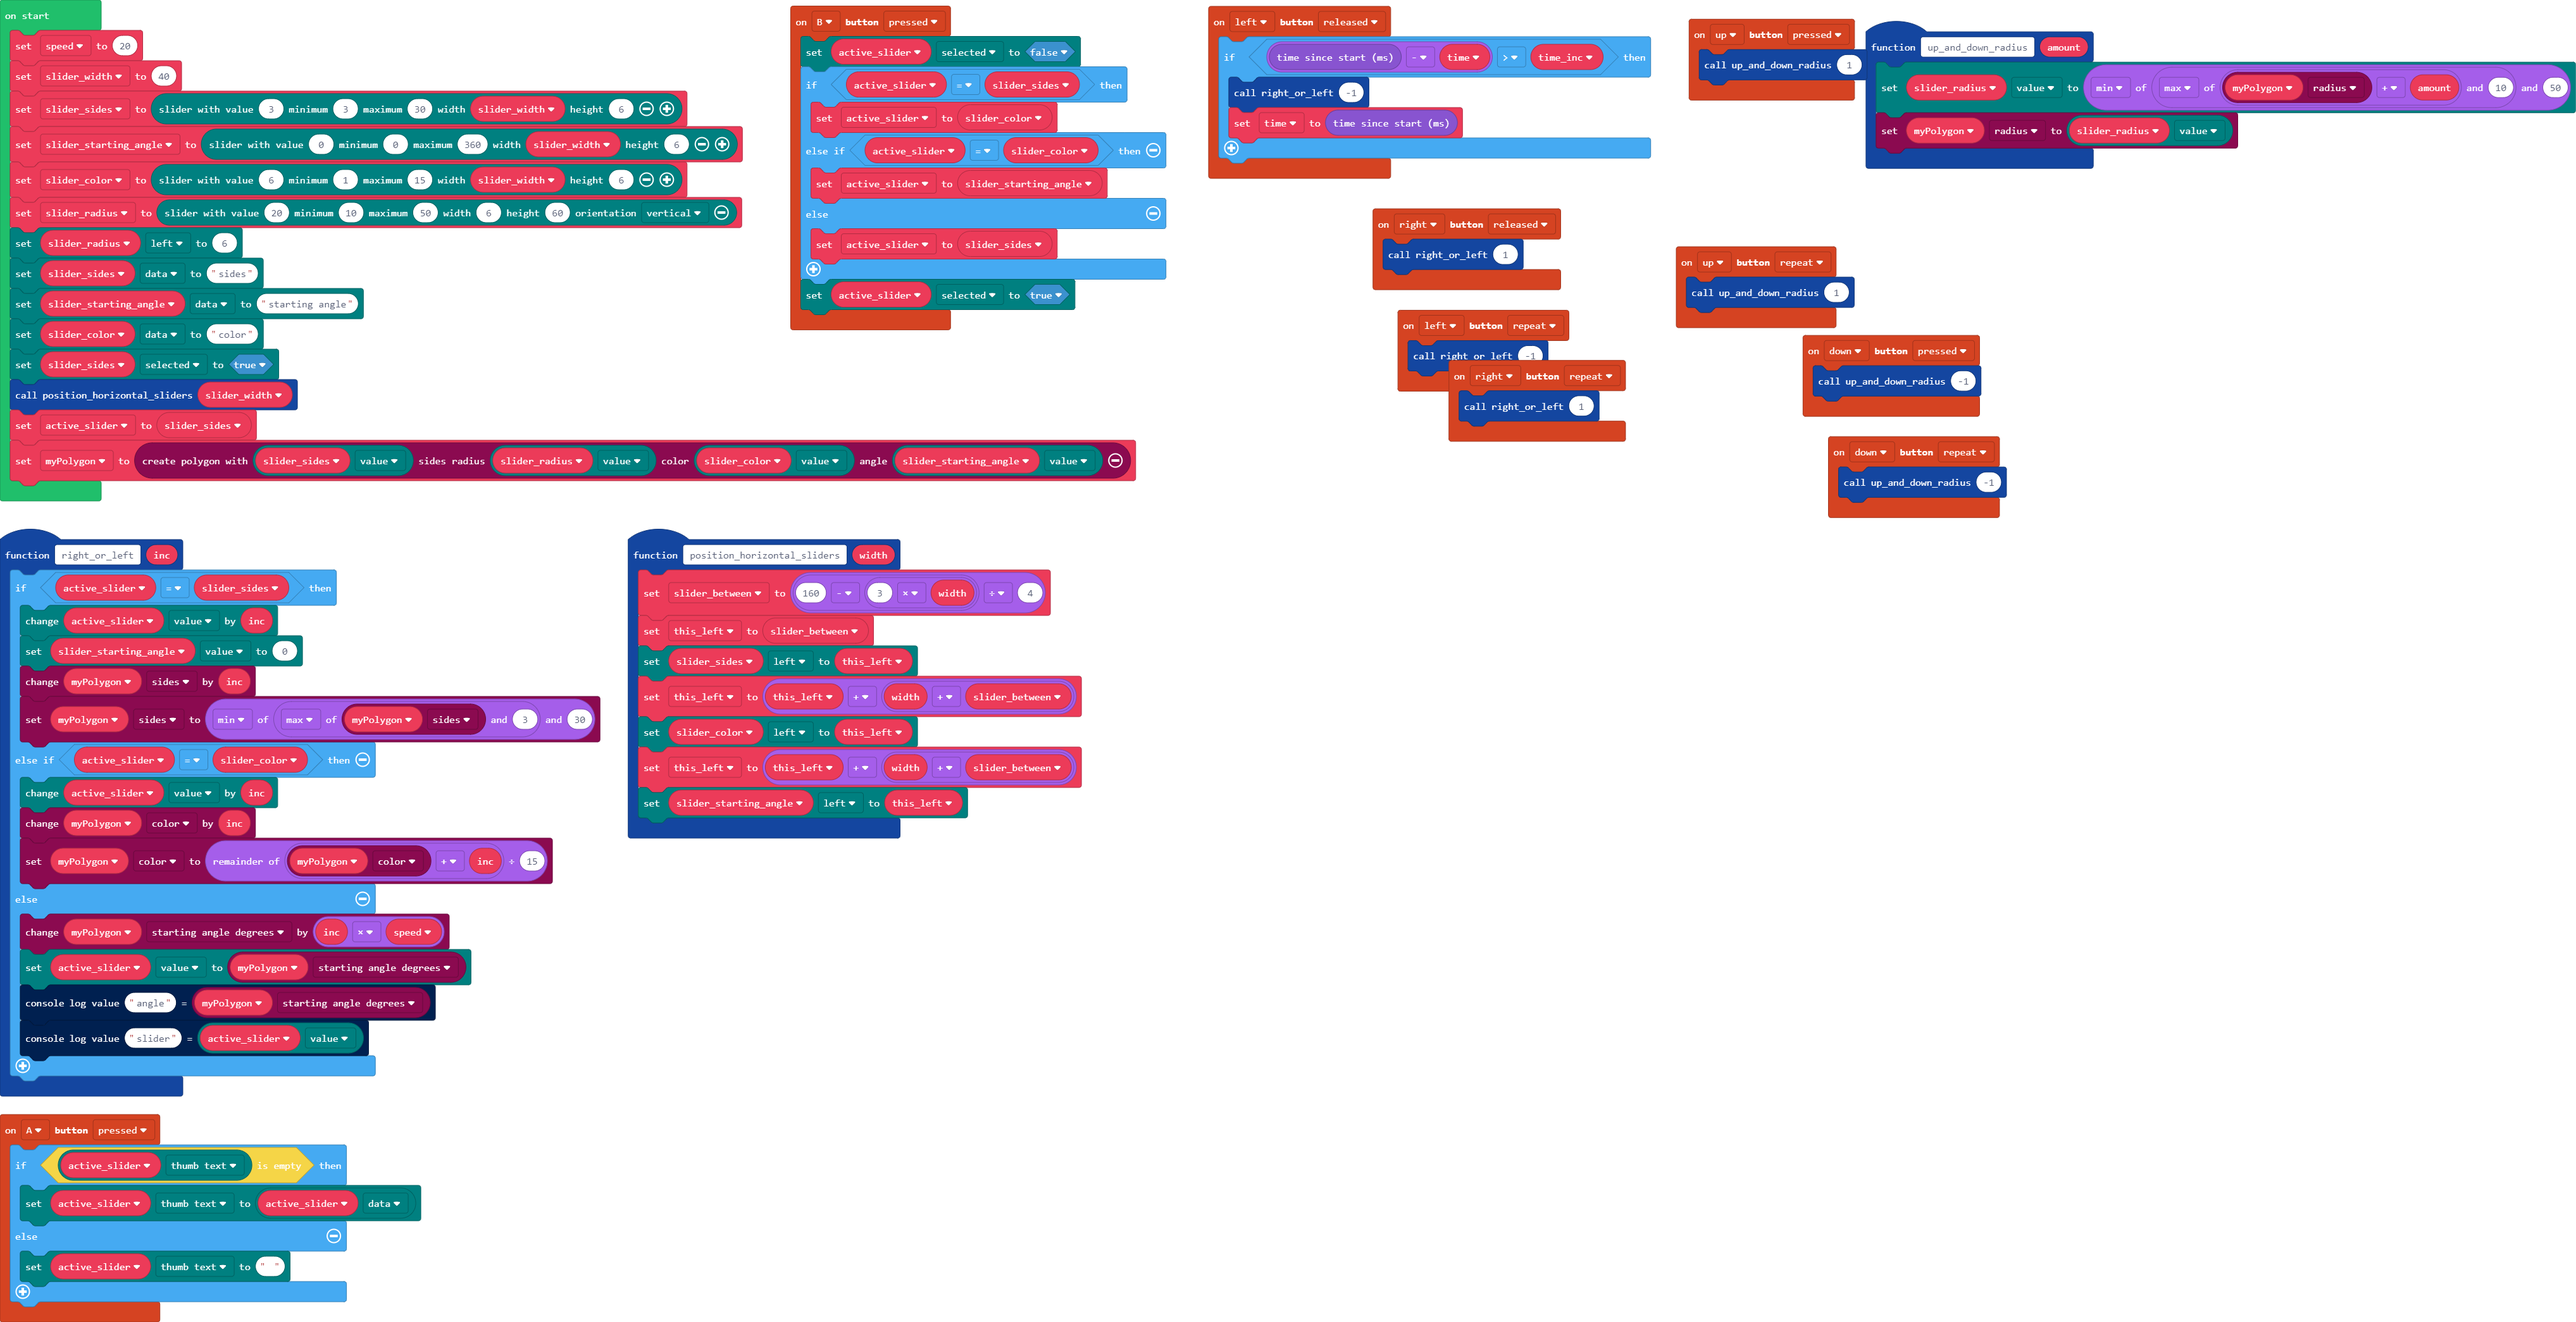
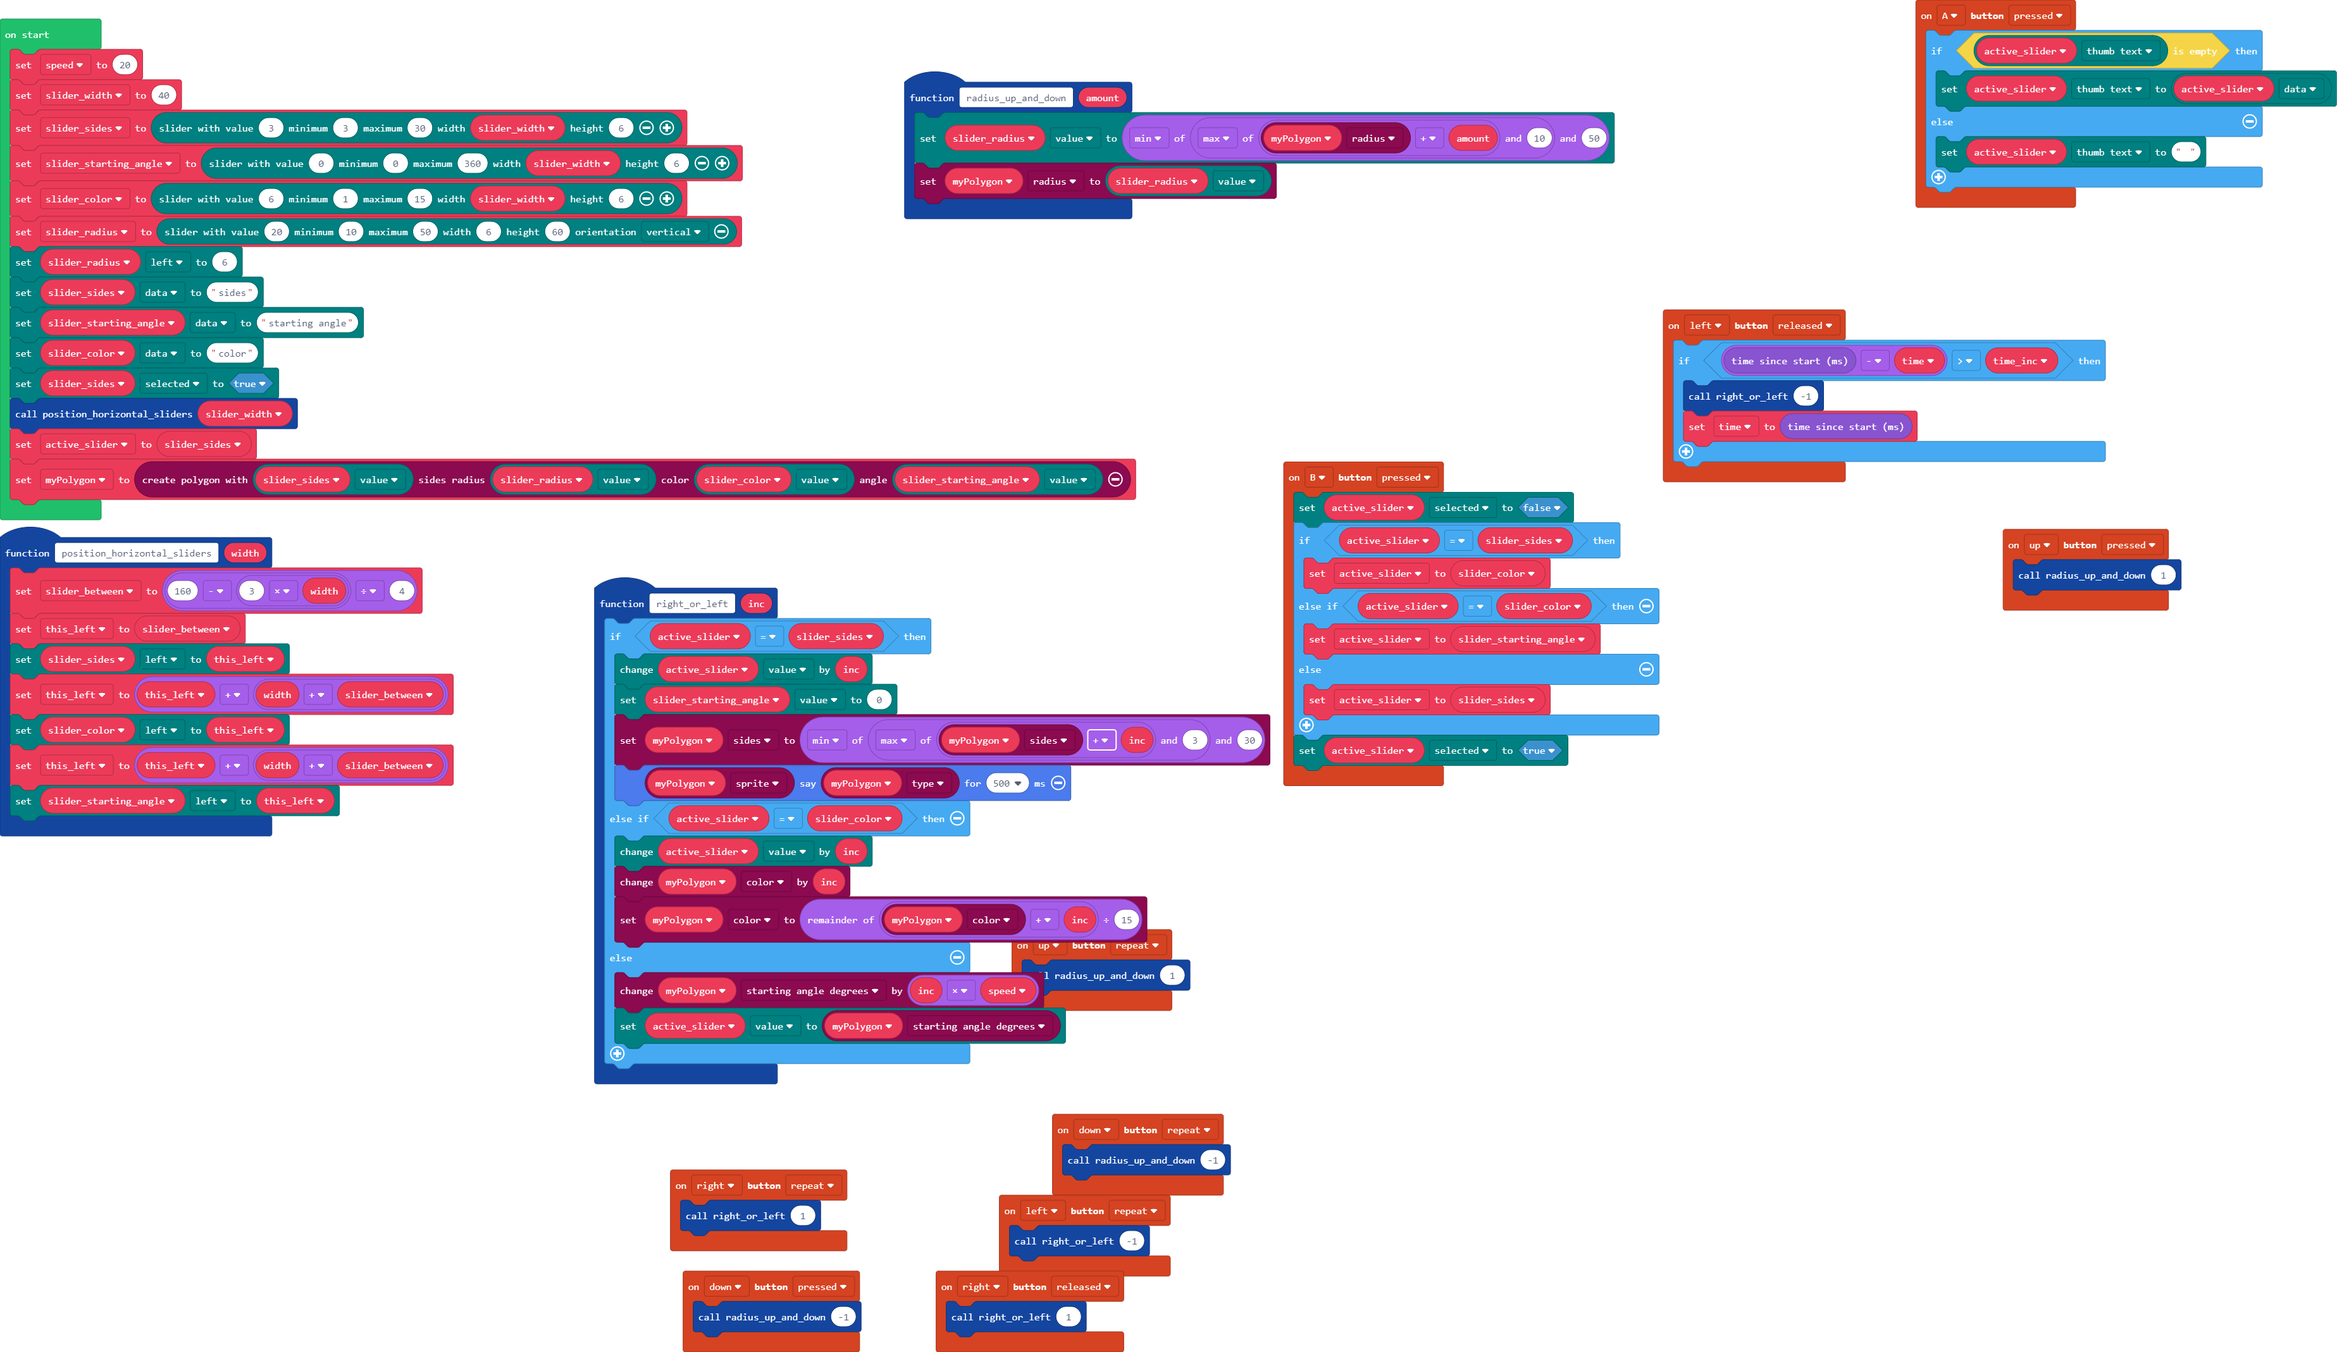
Update main.blocks, main.ts

diff --git a/main.ts b/main.ts
@@ -2,10 +2,10 @@ controller.right.onEvent(ControllerButtonEvent.Repeated, function () {
     right_or_left(1)
 })
 controller.down.onEvent(ControllerButtonEvent.Repeated, function () {
-    up_and_down_radius(-1)
+    radius_up_and_down(-1)
 })
 controller.down.onEvent(ControllerButtonEvent.Pressed, function () {
-    up_and_down_radius(-1)
+    radius_up_and_down(-1)
 })
 controller.B.onEvent(ControllerButtonEvent.Pressed, function () {
     active_slider.selected = false
@@ -25,10 +25,6 @@ controller.left.onEvent(ControllerButtonEvent.Released, function () {
         time = game.runtime()
     }
 })
-function up_and_down_radius (amount: number) {
-    slider_radius.value = Math.min(Math.max(myPolygon.radius + amount, 10), 50)
-    myPolygon.radius = slider_radius.value
-}
 controller.A.onEvent(ControllerButtonEvent.Pressed, function () {
     if (active_slider.thumb_text.isEmpty()) {
         active_slider.thumb_text = active_slider.data
@@ -40,8 +36,8 @@ function right_or_left (inc: number) {
     if (active_slider == slider_sides) {
         active_slider.value += inc
         slider_starting_angle.value = 0
-        myPolygon.sides += inc
-        myPolygon.sides = Math.min(Math.max(myPolygon.sides, 3), 30)
+        myPolygon.sides = Math.min(Math.max(myPolygon.sides + inc, 3), 30)
+        myPolygon.sprite.say(myPolygon.type, 500)
     } else if (active_slider == slider_color) {
         active_slider.value += inc
         myPolygon.color += inc
@@ -49,18 +45,20 @@ function right_or_left (inc: number) {
     } else {
         myPolygon.angle += inc * speed
         active_slider.value = myPolygon.angle
-        console.logValue("angle", myPolygon.angle)
-        console.logValue("slider", active_slider.value)
     }
 }
 controller.up.onEvent(ControllerButtonEvent.Repeated, function () {
-    up_and_down_radius(1)
+    radius_up_and_down(1)
 })
 controller.right.onEvent(ControllerButtonEvent.Released, function () {
     right_or_left(1)
 })
+function radius_up_and_down (amount: number) {
+    slider_radius.value = Math.min(Math.max(myPolygon.radius + amount, 10), 50)
+    myPolygon.radius = slider_radius.value
+}
 controller.up.onEvent(ControllerButtonEvent.Pressed, function () {
-    up_and_down_radius(1)
+    radius_up_and_down(1)
 })
 controller.left.onEvent(ControllerButtonEvent.Repeated, function () {
     right_or_left(-1)
